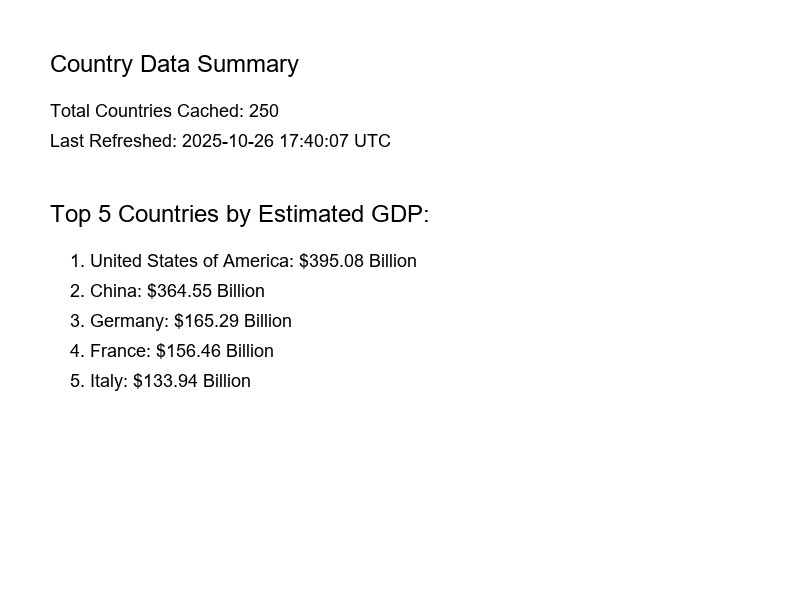
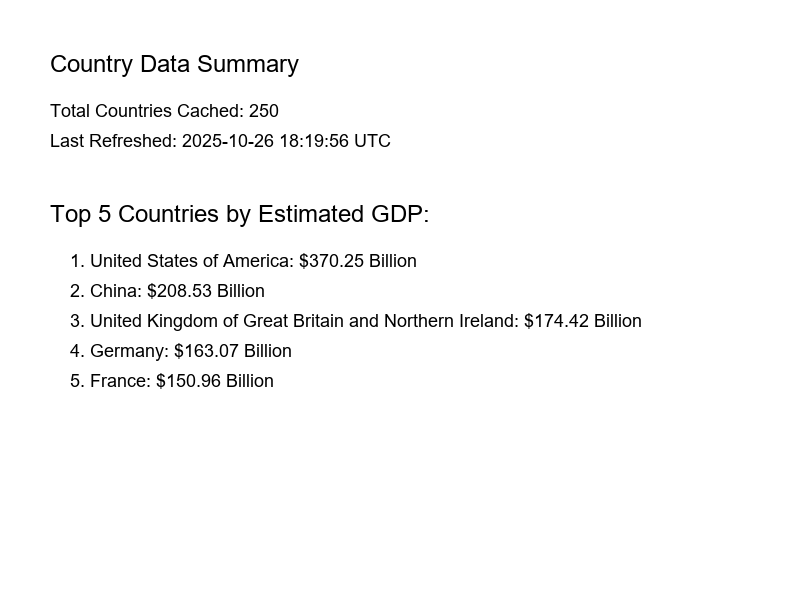
FULL LOGGING DETAILS TO DEBUG MYSQL DATABASE FAILURE ON PRODUCTION.

Changed region(s): [[0.0938, 0.48, 0.8125, 0.66], [0.375, 0.42, 0.4688, 0.45], [0.3438, 0.21, 0.4375, 0.24]]

diff --git a/api/services.py b/api/services.py
@@ -1,16 +1,19 @@
 # api/services.py
-import requests
-import random
-import os
 import asyncio
 import httpx
+import logging
+import os
+import random
 from datetime import datetime
+from django.utils import timezone # Import Django's timezone utility
 from django.db import transaction
 from django.conf import settings
 from PIL import Image, ImageDraw, ImageFont
-from asgiref.sync import sync_to_async
 
 from .models import Country, CacheStatus
+
+# Get a logger instance specific to this app
+logger = logging.getLogger('api')
 
 COUNTRIES_API_URL = "https://restcountries.com/v2/all?fields=name,capital,region,population,flag,currencies"
 EXCHANGE_RATE_API_URL = "https://open.er-api.com/v6/latest/USD"
@@ -22,17 +25,23 @@ class ExternalServiceError(Exception):
         self.status_code = status_code
         super().__init__(f"Could not fetch data from {service_name}")
 
+
 # We keep the image generation synchronous as it's a CPU-bound task
 def _generate_summary_image():
     """Generates and saves the summary image."""
+    logger.debug("Starting summary image generation...")
+
     total_countries = Country.objects.count()
     top_5_gdp = Country.objects.order_by('-estimated_gdp').values('name', 'estimated_gdp')[:5]
-    cache_status, _ = CacheStatus.objects.get_or_create(pk=1, defaults={'last_full_refresh_at': datetime.now()})
-    
+
+    # Use Django's timezone.now() for a timezone-aware datetime
+    now_aware = timezone.now()
+    cache_status, _ = CacheStatus.objects.get_or_create(pk=1, defaults={'last_full_refresh_at': now_aware})
+
     # Create image
     img = Image.new('RGB', (800, 600), color = 'white')
     d = ImageDraw.Draw(img)
-    
+
     try:
         # Use a default font or specify a path to a .ttf file
         font = ImageFont.truetype("arial.ttf", 24)
@@ -45,7 +54,7 @@ def _generate_summary_image():
     d.text((50, 50), f"Country Data Summary", fill=(0,0,0), font=font)
     d.text((50, 100), f"Total Countries Cached: {total_countries}", fill=(0,0,0), font=small_font)
     d.text((50, 130), f"Last Refreshed: {cache_status.last_full_refresh_at.strftime('%Y-%m-%d %H:%M:%S UTC')}", fill=(0,0,0), font=small_font)
-    
+
     d.text((50, 200), "Top 5 Countries by Estimated GDP:", fill=(0,0,0), font=font)
     y_pos = 250
     for i, country in enumerate(top_5_gdp):
@@ -57,9 +66,14 @@ def _generate_summary_image():
     # Save image
     os.makedirs(os.path.dirname(SUMMARY_IMAGE_PATH), exist_ok=True)
     img.save(SUMMARY_IMAGE_PATH)
+    logger.info(f"Summary image successfully generated and saved to {SUMMARY_IMAGE_PATH}")
+
+
+
 
 async def _fetch_api_data():
     """Asynchronously fetches data from both external APIs concurrently."""
+    logger.info("Starting concurrent fetch from external APIs...")
     async with httpx.AsyncClient(timeout=30) as client:
         try:
             countries_task = client.get(COUNTRIES_API_URL)
@@ -70,34 +84,48 @@ async def _fetch_api_data():
             countries_response, rates_response = responses
 
             if isinstance(countries_response, Exception):
+                logger.error("Failed to fetch from RestCountries API.", exc_info=True)
                 raise ExternalServiceError("RestCountries API")
             countries_response.raise_for_status()
+            logger.debug(f"RestCountries API responded with status {countries_response.status_code}")
 
             if isinstance(rates_response, Exception):
+                logger.error("Failed to fetch from Open Exchange Rate API.", exc_info=True)
                 raise ExternalServiceError("Open Exchange Rate API")
             rates_response.raise_for_status()
-
+            logger.debug(f"Open Exchange Rate API responded with status {rates_response.status_code}")
+            
+            logger.info("Successfully fetched data from both APIs.")
             return countries_response.json(), rates_response.json().get('rates', {})
 
         except httpx.HTTPStatusError as e:
             service_name = "RestCountries API" if COUNTRIES_API_URL in str(e.request.url) else "Open Exchange Rate API"
+            logger.error(f"{service_name} returned non-2xx status: {e.response.status_code}")
             raise ExternalServiceError(service_name, e.response.status_code)
-        except httpx.RequestError:
+        except httpx.RequestError as e:
             # This catches timeouts and connection errors
+            logger.error(f"A network error occurred: {e}", exc_info=True)
             raise ExternalServiceError("One or more external APIs")
+        
+
+
+
+
 
 
 # This is the main function called by the view
 def refresh_country_data():
     """
     High-performance refresh function that uses asyncio for concurrent API calls
-    and bulk database operations for efficiency.
+    and bulk database operations for efficiency with detailed logging.
     """
     # Run the async part of our code
     countries_data, exchange_rates = asyncio.run(_fetch_api_data())
+    logger.info(f"Processing {len(countries_data)} countries and {len(exchange_rates)} exchange rates.")
     
     # Get all existing countries from DB at once to avoid multiple queries in the loop
     existing_countries = {c.name.lower(): c for c in Country.objects.all()}
+    logger.debug(f"Found {len(existing_countries)} existing countries in the database.")
     
     countries_to_create = []
     countries_to_update = []
@@ -145,11 +173,16 @@ def refresh_country_data():
                 )
             )
             
+    logger.info(f"Prepared {len(countries_to_create)} new countries for creation.")
+    logger.info(f"Prepared {len(countries_to_update)} existing countries for update.")
+    
     # Perform all database operations in a single atomic transaction
     with transaction.atomic():
+        logger.debug("Starting atomic database transaction...")
         # Create new countries in one query
         if countries_to_create:
             Country.objects.bulk_create(countries_to_create)
+            logger.info(f"Successfully bulk-created {len(created_objs)} countries.")
             
         # Update existing countries in one query
         if countries_to_update:
@@ -157,13 +190,21 @@ def refresh_country_data():
                 countries_to_update,
                 ['capital', 'region', 'population', 'currency_code', 'exchange_rate', 'estimated_gdp', 'flag_url']
             )
+            logger.info(f"Successfully bulk-updated {len(countries_to_update)} countries.")
+
+
         
         # Update the global refresh timestamp
-        CacheStatus.objects.update_or_create(pk=1, defaults={'last_full_refresh_at': datetime.now()})
+        now_aware = timezone.now()  # FIX: Use timezone.now() to get a timezone-aware datetime object
+        CacheStatus.objects.update_or_create(pk=1, defaults={'last_full_refresh_at': now_aware})
+        logger.info(f"Updated cache status with new refresh time: {now_aware}")
+        logger.debug("Committing database transaction.")
+
 
     # Generate the summary image after the transaction is complete
     # Use sync_to_async if you were in a fully async context, but here we can call it directly.
     _generate_summary_image()
+    logger.info("Country data refresh process completed successfully.")
     
     return {"status": "success", "countries_processed": len(countries_data)}
 
